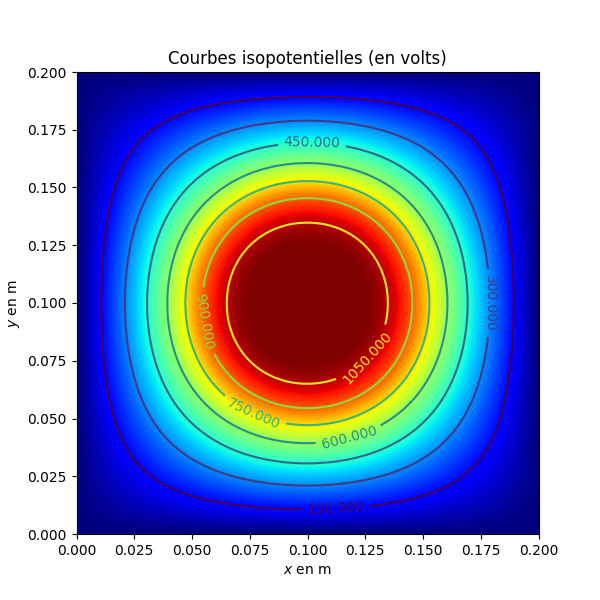
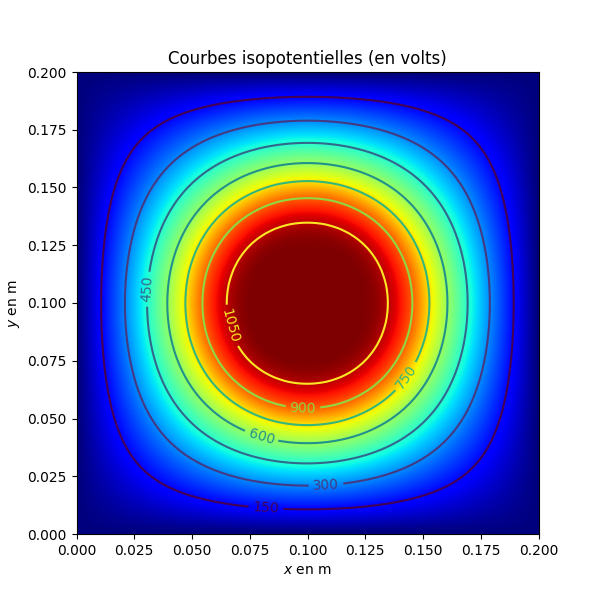
Passage des courbes de niveaux en entiers

diff --git a/concours/CCP/PC/2017/PC_CCP_modelisation_2017.py b/concours/CCP/PC/2017/PC_CCP_modelisation_2017.py
@@ -194,7 +194,7 @@ if cylindre_infini:
         im = plt.imshow(V_cyl, interpolation='bilinear', origin='lower',
                     cmap=cm.jet, extent=(0, L, 0, L) )
         CS = plt.contour(X,Y,V_cyl)
-        plt.clabel(CS,inline=1)
+        plt.clabel(CS,inline=1,fmt='%d')
         plt.title('Courbes isopotentielles (en volts)')
         plt.xlabel('$x$ en m')
         plt.ylabel('$y$ en m')
